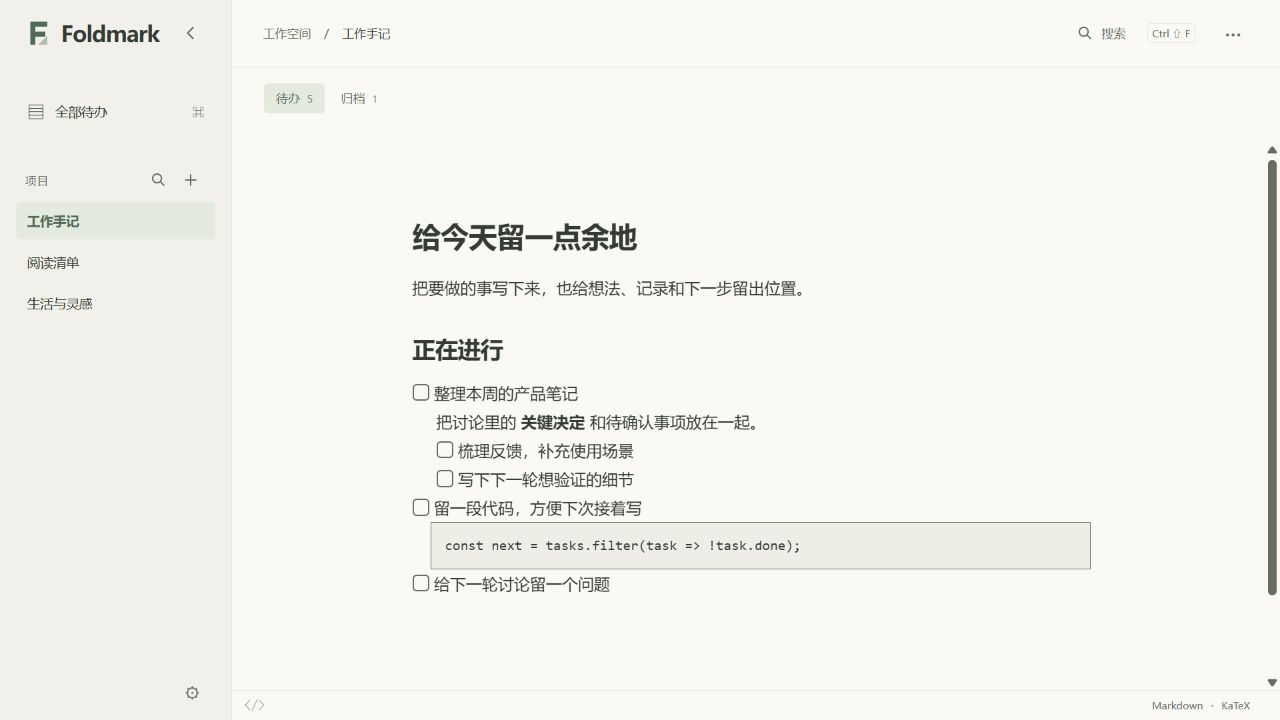
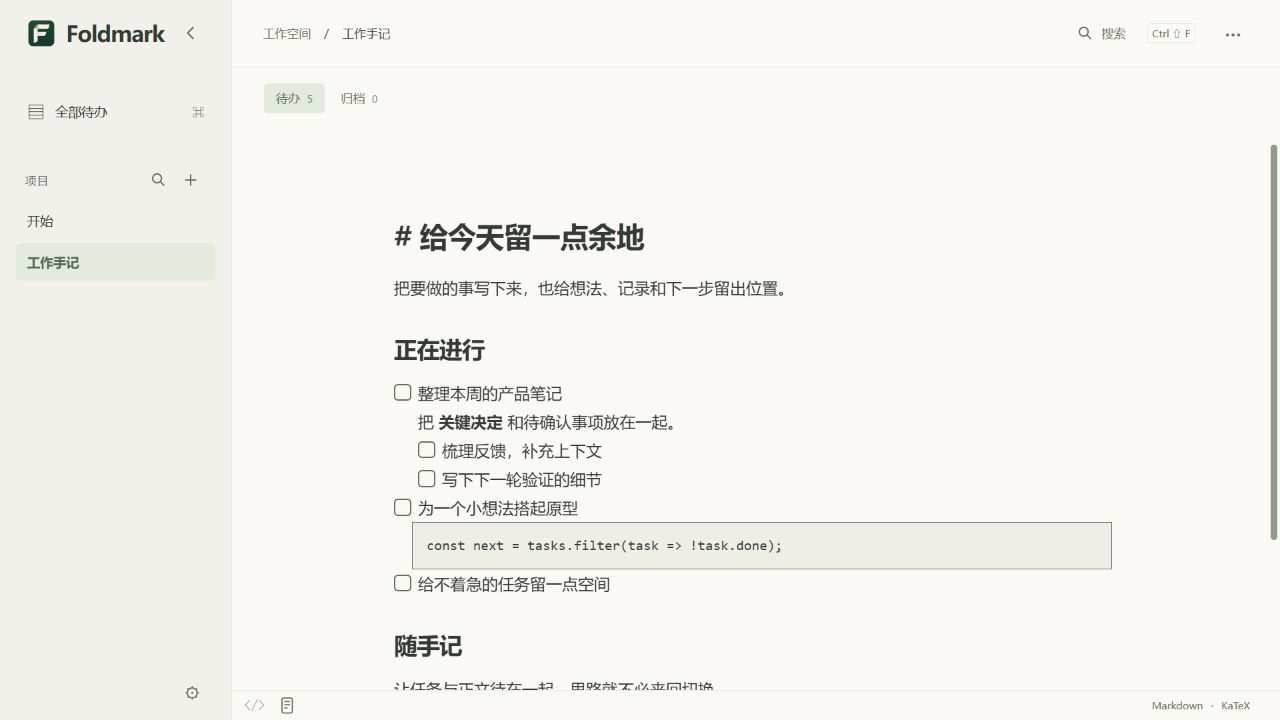
feat: 统一替换为圆角折纸 F 图标
- 保存最终图标原稿并生成应用 PNG 和多尺寸 Windows ICO
- 统一侧栏、网页图标和 README 展示，刷新界面截图
- 追踪图标资源变化，确保增量构建更新内嵌图标

diff --git a/src/app.css b/src/app.css
@@ -33,7 +33,7 @@ body:has(.desktop-window) .modal-backdrop{top:54px}
 .sidebar{width:232px;height:100%;background:var(--sidebar);border-right:1px solid var(--divider-color,var(--line));display:flex;flex-direction:column;padding:0 16px 12px;min-height:0}
 .brand{display:flex;align-items:center;gap:9px;height:var(--topbar-height);flex-shrink:0;margin-bottom:21px;padding:0 9px;border-bottom:1px solid transparent;color:var(--accent);font-size:22px;letter-spacing:-.8px;font-weight:650}
 .brand span{color:var(--ink)}
-.brand>svg{flex-shrink:0}
+.brand>img{flex-shrink:0}
 .icon-button{width:32px;height:32px;display:inline-flex;align-items:center;justify-content:center;border-radius:5px;font-size:23px;color:var(--muted);flex-shrink:0}
 .sidebar-close{margin-left:auto;padding:0;line-height:1;letter-spacing:normal}
 .nav-item{display:flex;align-items:center;gap:10px;width:100%;text-align:left;padding:10px 11px;border-radius:var(--nav-radius,5px);font-size:13px;color:var(--ink)}
@@ -69,7 +69,7 @@ body:has(.desktop-window) .modal-backdrop{top:54px}
 .desktop-window{--topbar-height:54px}
 .desktop-window .topbar{padding-right:0;gap:12px;user-select:none}
 .desktop-window .breadcrumb{flex:1;min-width:40px;height:100%}
-.desktop-window .breadcrumb>span,.desktop-window .breadcrumb>strong,.desktop-window .brand>svg,.desktop-window .brand>span{pointer-events:none}
+.desktop-window .breadcrumb>span,.desktop-window .breadcrumb>strong,.desktop-window .brand>img,.desktop-window .brand>span{pointer-events:none}
 .desktop-window .brand{user-select:none}
 .desktop-window .top-actions{align-self:stretch;gap:8px;flex-shrink:0}
 .search-button{white-space:nowrap;display:flex;align-items:center;gap:8px;font-size:12px;color:var(--muted);padding:8px;border-radius:5px}
@@ -255,7 +255,6 @@ body:has(.desktop-window.card-mode) .modal-backdrop{top:0}
 :root[data-monochrome=true] *, :root[data-monochrome=true] *::before, :root[data-monochrome=true] *::after{transition:none!important;animation:none!important;box-shadow:none!important;filter:none!important}
 :root[data-monochrome=true] button:disabled{opacity:1;text-decoration:line-through;border-style:dashed}
 :root[data-monochrome=true] .tabs button span{opacity:1}
-:root[data-monochrome=true] .brand svg [opacity]{opacity:1}
 :root[data-monochrome=true] .primary:hover:not(:disabled){outline:1px solid var(--accent);outline-offset:3px}
 :root[data-monochrome=true] .nav-active,:root[data-monochrome=true] .tab-active{outline:1px solid var(--accent);outline-offset:-1px}
 :root[data-monochrome=true] input,:root[data-monochrome=true] select{appearance:none}

diff --git a/src/App.svelte b/src/App.svelte
@@ -3,6 +3,7 @@
   import { onMount, tick } from 'svelte';
   import { fly } from 'svelte/transition';
   import { cubicOut } from 'svelte/easing';
+  import appIcon from '../src-tauri/icons/icon.png';
   import WindowControls from './lib/WindowControls.svelte';
   import UpdatePanel from './lib/UpdatePanel.svelte';
   import { UpdateCoordinator } from './lib/updater/update-coordinator';
@@ -675,7 +676,7 @@
     <!-- 固定侧栏内容宽度，由外层裁切随网格收放，避免动画期间文字和按钮反复换行。 -->
     <div class="sidebar-slot">
     <aside class="sidebar" aria-label="项目导航" inert={!sidebar || cardMode} transition:fly={{ x: -16, duration: reducedMotion || cardTransitioning ? 0 : 180, easing: cubicOut }}>
-      <div class="brand" data-tauri-drag-region={desktop ? true : undefined}><svg width="27" height="29" viewBox="0 0 27 29" aria-hidden="true"><path d="M5 3h17v5H10v5h10v5H10v8H5z" fill="currentColor"/><path d="m17 22 5-5v9h-9z" fill="currentColor" opacity=".4"/></svg><span>Foldmark</span><button class="icon-button sidebar-close" onclick={() => sidebar = false} aria-label="收起项目导航"><svg width="18" height="18" viewBox="0 0 20 20" fill="none" stroke="currentColor" stroke-width="1.7" stroke-linecap="round" stroke-linejoin="round" aria-hidden="true"><path d="m13 4-6 6 6 6"/></svg></button></div>
+      <div class="brand" data-tauri-drag-region={desktop ? true : undefined}><img src={appIcon} width="32" height="32" alt="" draggable={false} /><span>Foldmark</span><button class="icon-button sidebar-close" onclick={() => sidebar = false} aria-label="收起项目导航"><svg width="18" height="18" viewBox="0 0 20 20" fill="none" stroke="currentColor" stroke-width="1.7" stroke-linecap="round" stroke-linejoin="round" aria-hidden="true"><path d="m13 4-6 6 6 6"/></svg></button></div>
       <button class:nav-active={screen === 'all'} class="nav-item all-nav" onclick={showAll}><span aria-hidden="true">▤</span> 全部待办 <span class="shortcut">⌘</span></button>
       <div class="sidebar-section"><span>项目</span><div class="project-actions">
         <div class="project-search" data-project-search>

diff --git a/index.html b/index.html
@@ -1,2 +1,2 @@
 <!doctype html>
-<html lang="zh-CN"><head><meta charset="UTF-8" /><meta name="viewport" content="width=device-width, initial-scale=1.0" /><meta name="theme-color" content="#f7f6f2" /><title>Foldmark</title></head><body><div id="app"></div><script type="module" src="/src/main.ts"></script></body></html>
+<html lang="zh-CN"><head><meta charset="UTF-8" /><meta name="viewport" content="width=device-width, initial-scale=1.0" /><meta name="theme-color" content="#f7f6f2" /><link rel="icon" type="image/png" href="/src-tauri/icons/icon.png" /><title>Foldmark</title></head><body><div id="app"></div><script type="module" src="/src/main.ts"></script></body></html>

diff --git a/src-tauri/build.rs b/src-tauri/build.rs
@@ -1,4 +1,7 @@
 // 文件职责：生成桌面平台资源；定义范围：Tauri 构建入口。
 fn main() {
+    // 图标会编入 Windows 可执行文件；仅替换资源时也必须重新生成，避免增量构建保留旧图标。
+    println!("cargo:rerun-if-changed=icons/icon.ico");
+    println!("cargo:rerun-if-changed=icons/icon.png");
     tauri_build::build()
 }
